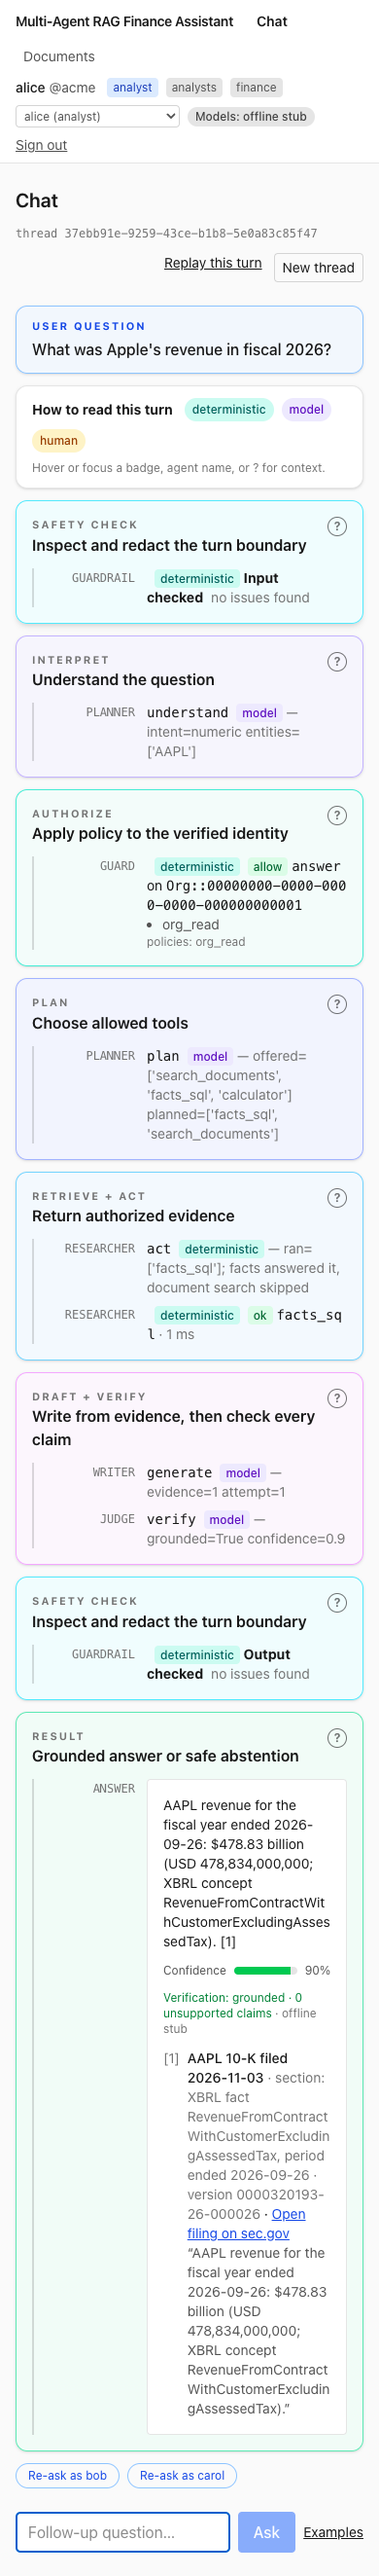
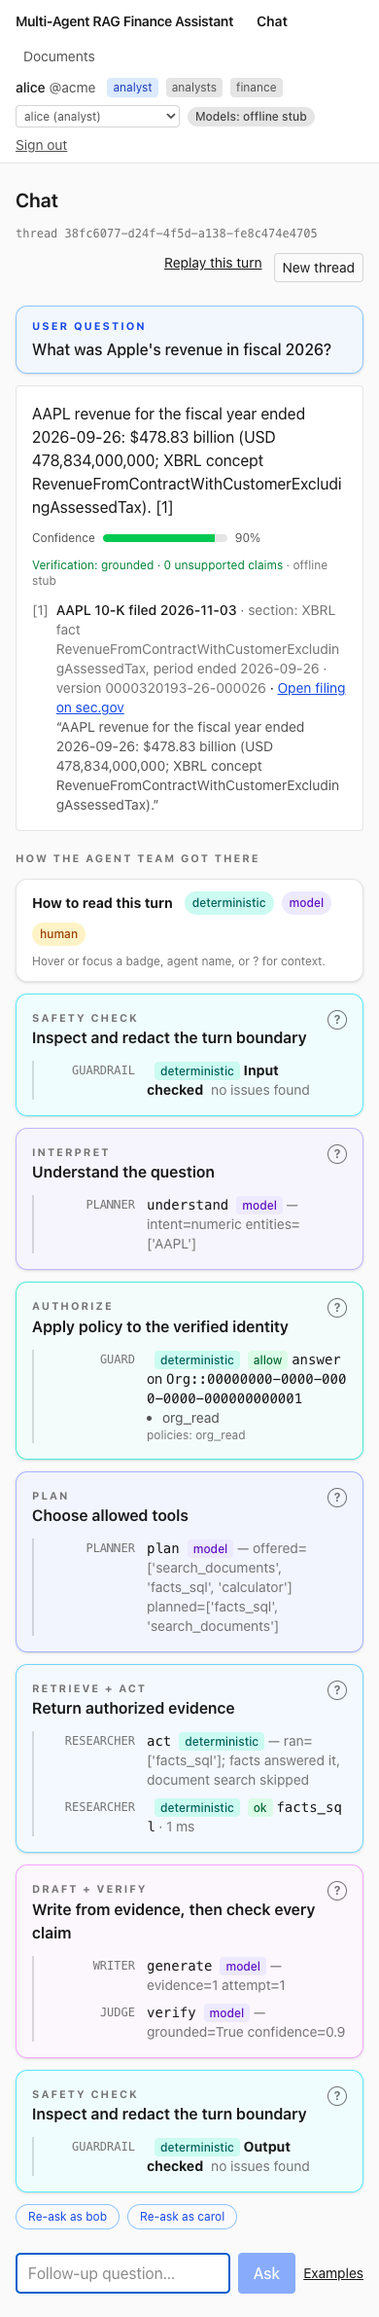
fix(l7): the result sits right under the question, the trace below it
A ticket created after approval, or a refusal, was shown only at the bottom of a
trace longer than a screen; the top of the column said just 'Action completed'.
The answer card, and an approval that is waiting, now render directly under the
question and scroll into view when they land. The compare view lines the two
results up at the top, so the one-line outcome strip is gone.
Screenshots and the README image are regenerated from this build.

diff --git a/apps/web/src/pages/ChatPage.tsx b/apps/web/src/pages/ChatPage.tsx
@@ -1,8 +1,9 @@
 import { Link, useNavigate } from "react-router-dom";
 import { useEffect, useRef, useState } from "react";
+import AnswerCard from "@/components/AnswerCard";
 import EventTimeline, { type TimelineItem } from "@/components/EventTimeline";
+import HitlCard from "@/components/HitlCard";
 import { PERSONAS, approve, errorMessage, getMe, getToken, streamChat, switchPersona } from "@/lib/api";
-import { answerOutcome, outcomeStrip } from "@/lib/present";
 
 type Turn = { question: string; items: TimelineItem[]; user: string; groups: string[] };
 // The exact strings pinned in docs/CONTRACTS.md ("Example questions"); DEMO.md and the tests use the same ones.
@@ -28,6 +29,7 @@ export default function ChatPage() {
   const [notice, setNotice] = useState<string | null>(null);
   const reAsking = useRef(false); // "Re-ask as" switches persona itself and keeps the compare view
   const input = useRef<HTMLInputElement>(null);
+  const liveTurn = useRef<HTMLElement>(null);
 
   useEffect(() => {
     if (!getToken()) navigate("/", { replace: true });
@@ -37,6 +39,18 @@ export default function ChatPage() {
     // the input is disabled during a turn, which drops focus; give it back without scrolling away from the answer
     if (!busy) input.current?.focus({ preventScroll: true });
   }, [busy]);
+
+  // The result (or an approval that is waiting) sits right under the question; bring it into view when it lands,
+  // because the trace below it is longer than a screen.
+  const live = turns[turns.length - 1];
+  const landed = live?.items.some((it) => it.event.type === "answer")
+    ? "answer"
+    : live?.items.some((it) => it.event.type === "hitl" && it.hitlDecision === undefined)
+      ? "approval"
+      : "";
+  useEffect(() => {
+    if (landed) liveTurn.current?.scrollIntoView({ block: "start" });
+  }, [landed, turns.length]);
 
   const pushEvent = (item: TimelineItem) =>
     setTurns((ts) => ts.map((t, i) => (i === ts.length - 1 ? { ...t, items: [...t.items, item] } : t)));
@@ -98,7 +112,6 @@ export default function ChatPage() {
       const turn: Turn = { question: t.question, items: [], user: me.user_id, groups: me.groups };
       setTurns([turn]);
       await streamChat(t.question, tid, (ev) => pushEvent({ event: ev }));
-      window.scrollTo({ top: 0 }); // both outcome strips sit at the top; that contrast is the point of a re-ask
     });
 
   const decide = (approved: boolean) => {
@@ -133,15 +146,15 @@ export default function ChatPage() {
     return () => window.removeEventListener("hr-persona", onPersona);
   }, []);
 
-  const column = (list: Turn[], live: boolean) =>
+  const column = (list: Turn[], isLive: boolean) =>
     list.map((t, i) => {
       const policy = t.items.find((it) => it.event.type === "policy")?.event;
       const answer = t.items.find((it) => it.event.type === "answer")?.event;
       const done = answer !== undefined;
-      const outcome = answer?.type === "answer" ? answerOutcome(answer.data.reason, answer.data.abstained) : null;
-      const last = live && i === list.length - 1;
+      const last = isLive && i === list.length - 1;
+      const waiting = last ? t.items.find((it) => it.event.type === "hitl" && it.hitlDecision === undefined)?.event : undefined;
       return (
-        <section key={i} className="min-w-0 space-y-3">
+        <section key={i} ref={last ? liveTurn : undefined} className="min-w-0 scroll-mt-4 space-y-3">
           {prior && (
             <div className="flex flex-wrap items-center gap-2 border-b border-neutral-300 pb-1 text-sm dark:border-neutral-700">
               <span className="font-semibold">{t.user}</span>
@@ -157,16 +170,20 @@ export default function ChatPage() {
               )}
             </div>
           )}
-          {prior && outcome && answer?.type === "answer" && (
-            // the two results sit at different heights under their traces; this line puts them side by side
-            <p className={`rounded px-3 py-2 text-sm font-semibold ${outcome.kind === "none" ? "bg-amber-100 text-amber-900 dark:bg-amber-900/50 dark:text-amber-200" : "bg-green-100 text-green-900 dark:bg-green-900/50 dark:text-green-200"}`}>
-              {outcomeStrip(outcome, answer.data.citations.length)}
-            </p>
-          )}
           <div className="rounded-xl border border-blue-300 bg-blue-50/70 px-4 py-3 shadow-sm dark:border-blue-800 dark:bg-blue-950/25">
             <p className="text-[0.68rem] font-bold tracking-[0.18em] text-blue-700 dark:text-blue-300">USER QUESTION</p>
             <p className="mt-1 break-words font-medium">{t.question}</p>
           </div>
+          {/* the outcome first, then how the team got there: in a compare view the two results line up at the top */}
+          {answer?.type === "answer" && (
+            <div data-turn-result>
+              <AnswerCard answer={answer.data} />
+            </div>
+          )}
+          {!done && waiting?.type === "hitl" && (
+            <HitlCard tool={waiting.data.tool} arguments={waiting.data.arguments} reason={waiting.data.reason} busy={busy} onDecide={decide} />
+          )}
+          <p className="pt-2 text-[0.68rem] font-bold tracking-[0.18em] text-neutral-500">HOW THE AGENT TEAM GOT THERE</p>
           <EventTimeline items={t.items} busy={busy && last} onDecide={decide} />
           {done && !busy && (
             <div className="flex flex-wrap gap-2">

diff --git a/apps/web/src/components/EventTimeline.tsx b/apps/web/src/components/EventTimeline.tsx
@@ -3,7 +3,6 @@ import { getConfig } from "@/lib/api";
 import { answerOutcome, sectionLabel } from "@/lib/present";
 import type { TurnEvent } from "@/lib/schemas";
 import { groupTimelineItems, type TimelinePhase } from "@/lib/timeline";
-import AnswerCard from "./AnswerCard";
 import HitlCard from "./HitlCard";
 
 export type TimelineItem = { event: TurnEvent; hitlDecision?: boolean };
@@ -200,11 +199,7 @@ function EventRow({ item, index, busy, answered, onDecide }: { item: TimelineIte
         </Row>
       );
     case "answer":
-      return (
-        <Row key={index} label="answer">
-          <AnswerCard answer={e.data} />
-        </Row>
-      );
+      return null; // the page shows the answer above the trace
     case "error":
       return (
         <Row key={index} label="error">
@@ -225,7 +220,9 @@ export default function EventTimeline({ items, busy, onDecide }: Props) {
   useEffect(() => {
     getConfig().then((c) => setOffline(c !== null && c.model_backend !== "bedrock"));
   }, []);
-  const groups = groupTimelineItems(items);
+  // The page shows the answer, and an approval that is still waiting, above this trace; the trace leaves them out.
+  const lifted = (item: TimelineItem) => item.event.type === "answer" || (item.event.type === "hitl" && item.hitlDecision === undefined);
+  const groups = groupTimelineItems(items.filter((item) => !lifted(item)));
 
   return (
     <div className="space-y-3">

diff --git a/apps/web/src/lib/present.test.ts b/apps/web/src/lib/present.test.ts
@@ -1,6 +1,6 @@
 import assert from "node:assert/strict";
 import { test } from "node:test";
-import { SESSION_EXPIRED, THREAD_OWNER, answerOutcome, errorSentence, modelName, outcomeStrip, sectionLabel } from "./present.ts";
+import { SESSION_EXPIRED, THREAD_OWNER, answerOutcome, errorSentence, modelName, sectionLabel } from "./present.ts";
 
 test("model ids read as names, the stub never as 'fake'", () => {
   assert.equal(modelName("fake"), "offline stub");
@@ -44,10 +44,3 @@ test("the headline follows Answer.reason and falls back to abstained when it is 
   assert.equal(answerOutcome("some_future_reason", true).badge, "No answer");
 });
 
-test("the compare strip is one line per run", () => {
-  assert.equal(outcomeStrip(answerOutcome("answered", false), 1), "Answered · 1 citation");
-  assert.equal(outcomeStrip(answerOutcome(undefined, false), 3), "Answered · 3 citations");
-  assert.equal(outcomeStrip(answerOutcome(undefined, true), 0), "No answer");
-  assert.equal(outcomeStrip(answerOutcome("out_of_scope", true), 0), "No answer · Not a question about the filings");
-  assert.equal(outcomeStrip(answerOutcome("action_done", false), 0), "Action completed");
-});

diff --git a/apps/web/src/lib/present.ts b/apps/web/src/lib/present.ts
@@ -63,8 +63,3 @@ const BY_REASON: Record<string, Outcome> = {
 export function answerOutcome(reason: string | null | undefined, abstained: boolean): Outcome {
   return (reason ? BY_REASON[reason] : undefined) ?? (abstained ? none("") : ANSWERED);
 }
-
-export function outcomeStrip(o: Outcome, citations: number): string {
-  if (o.kind === "answer") return `Answered · ${citations} citation${citations === 1 ? "" : "s"}`;
-  return [o.badge, o.headline].filter(Boolean).join(" · ");
-}

diff --git a/docs/DEMO.md b/docs/DEMO.md
@@ -52,9 +52,9 @@ Proves: a grounded, cited answer, with the deterministic gates and the model ste
 
 ![alice and bob side by side](screenshots/10-persona-compare.png) ![bob alone](screenshots/05-bob-chat.png)
 
-Under alice's answer click **Re-ask as bob**: the same question runs as bob in a second column, each column
-topped by an outcome strip ("Answered · N citations" for alice, "No answer · None of the documents this
-person may read answer the question" for bob).
+Under alice's answer click **Re-ask as bob**: the same question runs as bob in a second column. Each column
+shows its result first, right under the question (alice's cited answer; for bob "No answer: None of the
+documents you are allowed to read answer that question."), with the agent team's trace below it.
 
 Say: "bob is in engineering. He may read the Form 8-K (current report) filings only, and they do not answer
 a supply-chain question, so the reranker's relevance floor drops them. With no evidence left the Writer is
@@ -143,8 +143,9 @@ Proves: LangGraph Postgres checkpointer, replay, thread ownership; item-level pe
 
 The chat page at phone width: ![mobile chat](screenshots/09-mobile-chat.png)
 
-Optional: open Phoenix at http://localhost:6006, project "multi-agent-finance". Each turn is a trace with
-the graph nodes and one TOOL span per guarded tool call; health checks are not traced.
+Optional: open Phoenix at http://localhost:6006, project "multi-agent-finance". The trace list focuses on
+requests, agent turns, graph nodes and guarded TOOL calls. Health checks, metrics and individual SQL
+statements are intentionally not traced, so operational noise does not bury the multi-agent workflow.
 
 ## 4:30 Close
 
